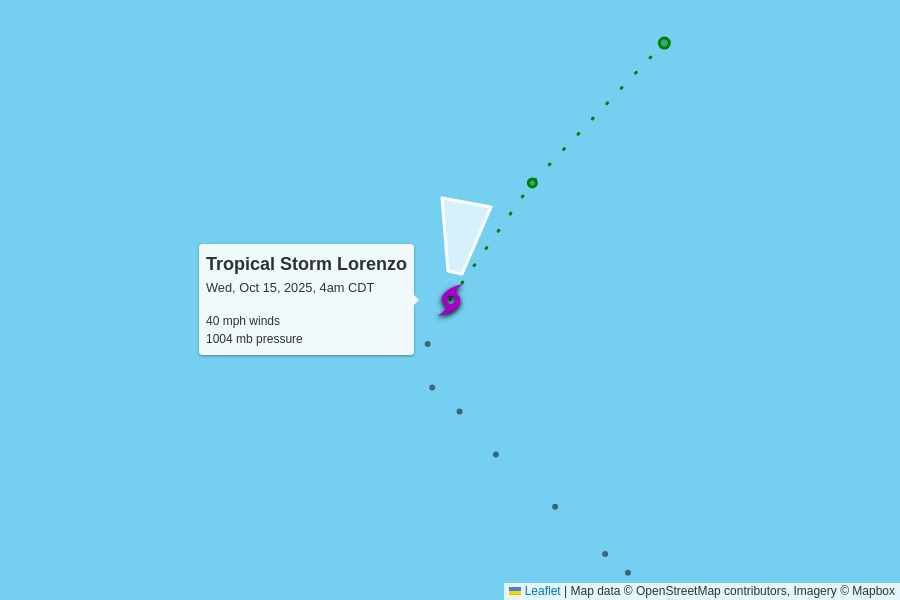
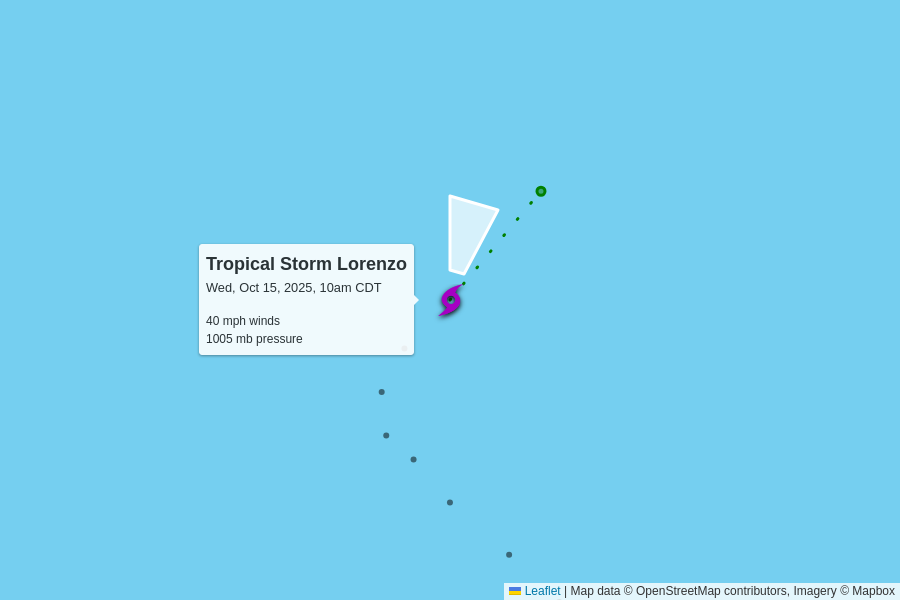
automatic update

diff --git a/docs/index.html b/docs/index.html
@@ -102,7 +102,7 @@
         <td colspan="6" class="storm category-0" >
           <h2>
             Tropical Storm Lorenzo
-            <p class="updated">last updated <span data-time>2025-10-15T09:00:00.000Z</span></p>
+            <p class="updated">last updated <span data-time>2025-10-15T15:00:00.000Z</span></p>
           </h2>
         </td>
       </tr>
@@ -118,11 +118,11 @@
       <tr>
         <td class="spacer"></td>
         <td>40 mph<br>0 mph since last update</td>
-        <td>1004 mb<br>-1 mb since last update</td>
+        <td>1005 mb<br>+1 mb since last update</td>
         <td>
-          13 mph to the north
+          14 mph to the north-northeast
           <br/>
-          <span style="display: inline-block; font-size: 1.5em; transform: rotate(10deg);">↑</span>
+          <span style="display: inline-block; font-size: 1.5em; transform: rotate(15deg);">↑</span>
         </td>
         <td><a href="https://raw.githubusercontent.com/mgwalker/atlantic-hurricanes/main/data/csv/AL122025.csv">AL122025.csv</a></td>
         <td><a href="https://www.nhc.noaa.gov/archive/2025/LORENZO.shtml?">NHC advisories</a></td>
